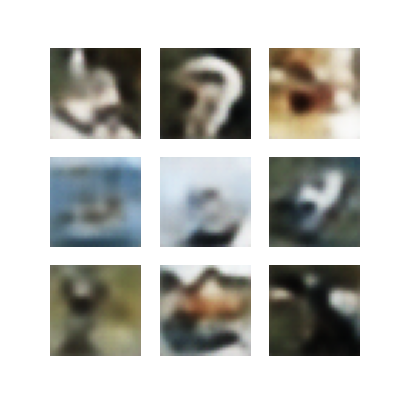
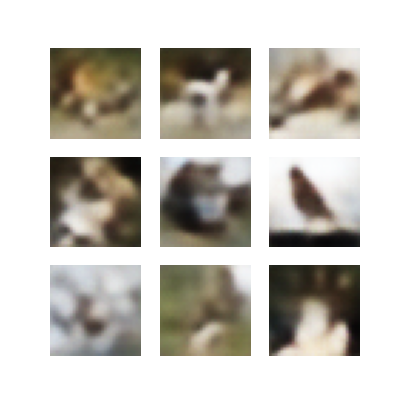
force hidden dim in model parameter

diff --git a/vqvae/main.py b/vqvae/main.py
@@ -52,7 +52,7 @@ def get_args(debug):
     
     parser.add_argument("--num_embeddings", default=256, type=int,
                         help="the size of the discrete latent space(K)")
-    parser.add_argument("--embedding_dim", default=32, type=int,
+    parser.add_argument("--embedding_dim", default=64, type=int,
                         help="the dimensionality of the discrete latent space")
     
     parser.add_argument('--epochs', default=10, type=int,
@@ -137,7 +137,7 @@ def main():
                                             shuffle=True, num_workers=0, pin_memory=True)
     classes = ('plane', 'car', 'bird', 'cat', 'deer', 'dog', 'frog', 'horse', 'ship', 'truck')
     
-    model = VQVAE(config, device)
+    model = VQVAE(config, device, hidden_dims=[128, 256])
     model.to(device)
     # next(model.parameters()).is_cuda
 
@@ -187,10 +187,10 @@ def main():
     wandb.log_artifact(artifact)
     
     # """model load"""
-    # artifact = wandb.use_artifact('anseunghwan/(causal)VAE/model:v16', type='model')
+    # artifact = wandb.use_artifact('anseunghwan/VAE/model:v0', type='model')
     # model_dir = artifact.download()
-    # model = VAE(config, device)
-    # model.load_state_dict(torch.load(model_dir + '/model.pth'))
+    # model_ = VQVAE(config, device, hidden_dims=[128, 256])
+    # model_.load_state_dict(torch.load(model_dir + '/model.pth'))
     
     wandb.run.finish()
 #%%

diff --git a/vqvae/utils/model.py b/vqvae/utils/model.py
@@ -133,13 +133,14 @@ class VQVAE(nn.Module):
 
         modules.append(nn.LeakyReLU())
 
-        hidden_dims.reverse()
+        # hidden_dims.reverse()
+        hidden_dims_reversed = list(reversed(hidden_dims))
 
-        for i in range(len(hidden_dims) - 1):
+        for i in range(len(hidden_dims_reversed) - 1):
             modules.append(
                 nn.Sequential(
-                    nn.ConvTranspose2d(hidden_dims[i],
-                                       hidden_dims[i + 1],
+                    nn.ConvTranspose2d(hidden_dims_reversed[i],
+                                       hidden_dims_reversed[i + 1],
                                        kernel_size=4,
                                        stride=2,
                                        padding=1),
@@ -148,7 +149,7 @@ class VQVAE(nn.Module):
 
         modules.append(
             nn.Sequential(
-                nn.ConvTranspose2d(hidden_dims[-1],
+                nn.ConvTranspose2d(hidden_dims_reversed[-1],
                                    out_channels=3,
                                    kernel_size=4,
                                    stride=2, padding=1),
